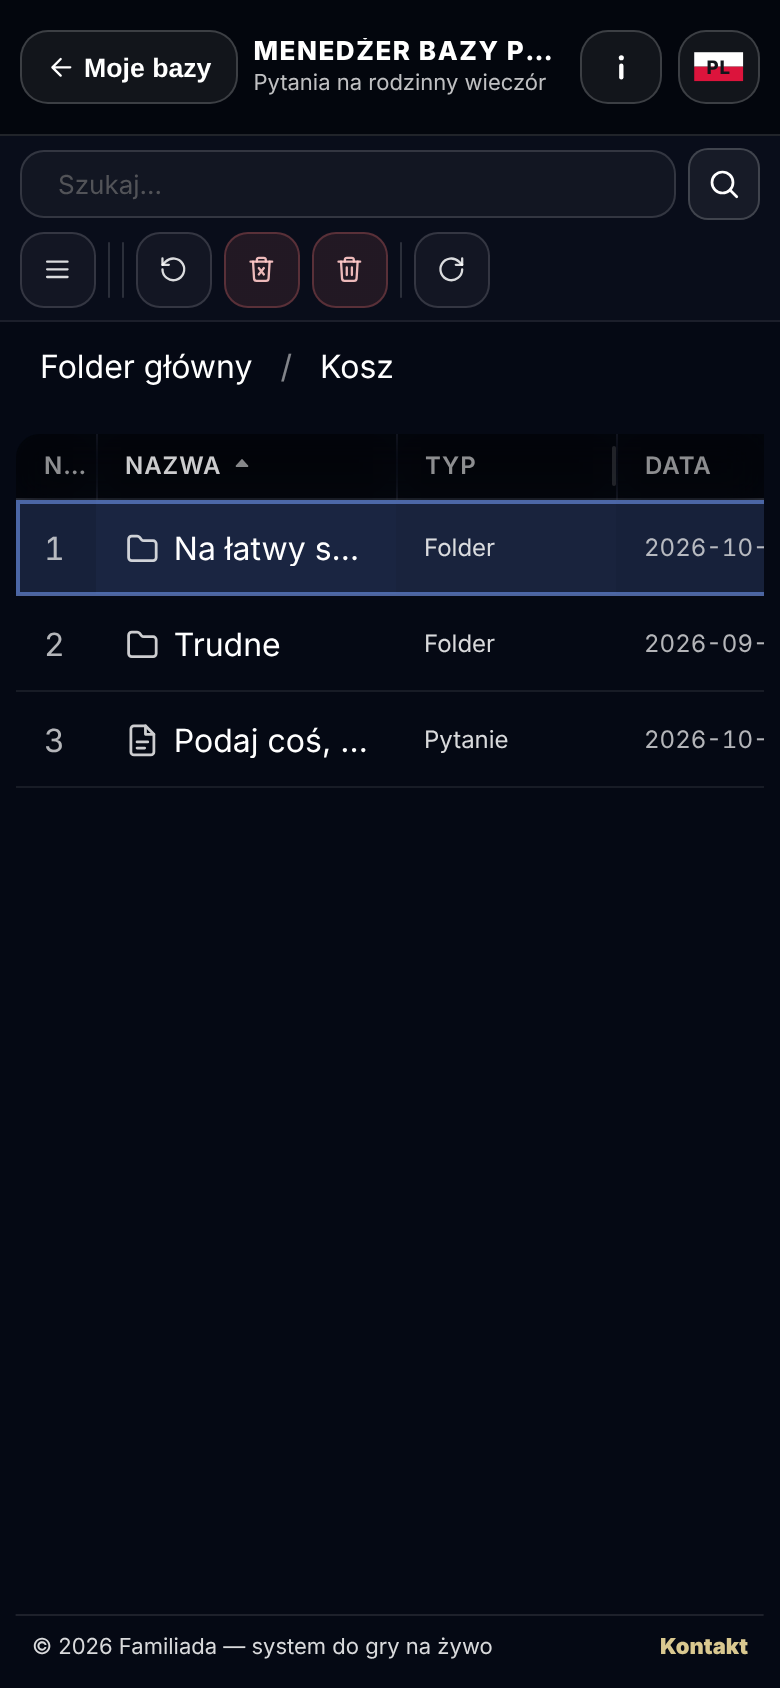
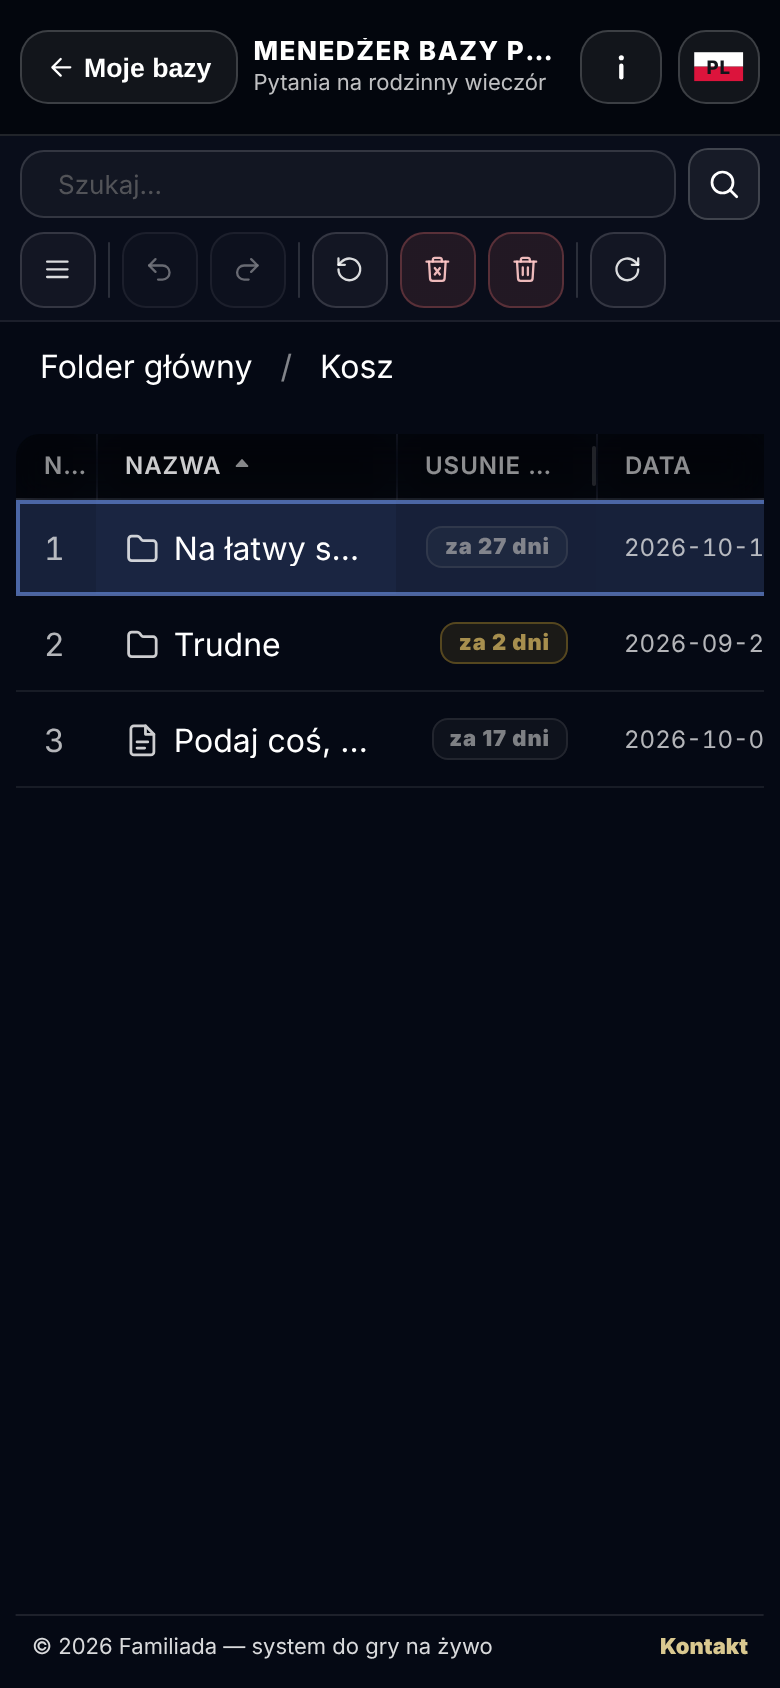
E22: kosz na telefonie — kolumna „Zniknie” za nazwą, bez kolumny Typ; PROGRESS i plan zaktualizowane
Claude-Session: https://claude.ai/code/session_01G9bp3sDMZMgi9kxrvLkmJC

diff --git a/web/bases/explorer/js/render.js b/web/bases/explorer/js/render.js
@@ -389,6 +389,14 @@ function emptyText(state, listing) {
   return t("baseExplorer.list.empty");
 }
 
+// Kolumny listy. W koszu bez Typu (ikona mówi, czy to folder, czy pytanie),
+// a „Usunie się” zaraz za nazwą — na telefonie widać ją bez przewijania.
+const TRASH_ORDER = ["num", "name", "info", "date"];
+function columnsFor(listing) {
+  if (listing.mode !== "trash") return LIST_COLUMNS;
+  return TRASH_ORDER.map((key) => LIST_COLUMNS.find((c) => c.key === key));
+}
+
 export function currentListing(state) {
   return computeListing(state.store, state.d, { location: state.location, query: isTrash(state) ? {} : state.query });
 }
@@ -413,12 +421,13 @@ export function renderList(state) {
     return;
   }
 
+  const columns = columnsFor(listing);
   const saved = loadCols();
   const narrow = isNarrow();
-  const cols = LIST_COLUMNS.map((c) => (c.key === "name" ? `<col>` : `<col style="width:${colWidth(c, saved)}px">`)).join("");
-  const minW = LIST_COLUMNS.reduce((s, c) => s + (c.key === "name" ? (narrow ? c.narrowMin : c.min) : colWidth(c, saved)), 0);
+  const cols = columns.map((c) => (c.key === "name" ? `<col>` : `<col style="width:${colWidth(c, saved)}px">`)).join("");
+  const minW = columns.reduce((s, c) => s + (c.key === "name" ? (narrow ? c.narrowMin : c.min) : colWidth(c, saved)), 0);
 
-  const head = LIST_COLUMNS.map((c) => {
+  const head = columns.map((c) => {
     // w koszu kolumna Info mówi, kiedy wpis zniknie na zawsze
     const label = esc(t(c.key === "info" && listing.mode === "trash" ? "baseExplorer.list.colPurge" : c.labelKey));
     if (!c.sort) return `<th class="${c.cls}">${label}</th>`;
@@ -449,13 +458,16 @@ export function renderList(state) {
       type = `<span class="type-label">${esc(t("baseExplorer.list.questionType"))}</span>${typeDotHtml(it.type)}`;
       info = esc(t("baseExplorer.list.answerCount", { count: it.info }));
     }
+    const cell = {
+      num: `<td class="col-num">${i + 1}</td>`,
+      name: `<td class="col-main"><div class="title-line"><span class="title-text">${title}</span>${dots}</div></td>`,
+      type: `<td class="col-type">${type}</td>`,
+      date: `<td class="col-date">${esc(fmtDate(it.date))}</td>`,
+      info: `<td class="col-meta">${info}</td>`,
+    };
     return `
       <tr class="row${sel}${cut}"${it.kind === "trash" ? "" : draggable} data-kind="${it.kind}" data-id="${esc(it.id)}" data-key="${esc(key)}">
-        <td class="col-num">${i + 1}</td>
-        <td class="col-main"><div class="title-line"><span class="title-text">${title}</span>${dots}</div></td>
-        <td class="col-type">${type}</td>
-        <td class="col-date">${esc(fmtDate(it.date))}</td>
-        <td class="col-meta">${info}</td>
+        ${columns.map((c) => cell[c.key]).join("")}
       </tr>`;
   }).join("");
 
@@ -465,18 +477,18 @@ export function renderList(state) {
       <thead><tr class="list-head">${head}</tr></thead>
       <tbody>${rows}</tbody>
     </table>`;
-  initColumnResizers();
+  initColumnResizers(columns);
 }
 
 // Uchwyty zmiany szerokości (bez kolumny Nazwa, która wypełnia resztę);
 // dwuklik przywraca domyślną szerokość.
-function initColumnResizers() {
+function initColumnResizers(columns) {
   const table = elList?.querySelector(".list-table");
   const head = table?.querySelector(".list-head");
   if (!table || !head) return;
   const colEls = table.querySelectorAll("colgroup col");
 
-  LIST_COLUMNS.forEach((c, i) => {
+  columns.forEach((c, i) => {
     if (!c.min || c.key === "name") return;
     const th = head.children[i];
     const col = colEls[i];

diff --git a/web/shared/translation/uk.js b/web/shared/translation/uk.js
@@ -4482,7 +4482,7 @@ const uk = {
       colType: "Тип",
       colDate: "Дата",
       colInfo: "Інфо",
-      colPurge: "Видалиться",
+      colPurge: "Зникне",
       folderType: "Папка",
       folderCount: "{count} елем.",
       questionType: "Питання",

diff --git a/web/shared/translation/pl.js b/web/shared/translation/pl.js
@@ -4385,7 +4385,7 @@ const pl = {
       colType: "Typ",
       colDate: "Data",
       colInfo: "Info",
-      colPurge: "Usunie się",
+      colPurge: "Zniknie",
       folderType: "Folder",
       folderCount: "{count} elem.",
       questionType: "Pytanie",

diff --git a/web/shared/translation/en.js b/web/shared/translation/en.js
@@ -4485,7 +4485,7 @@ const en = {
       colType: "Type",
       colDate: "Date",
       colInfo: "Info",
-      colPurge: "Deleted",
+      colPurge: "Expires",
       folderType: "Folder",
       folderCount: "{count} items",
       questionType: "Question",

diff --git a/docs/menedzer-bazy-plan.md b/docs/menedzer-bazy-plan.md
@@ -127,32 +127,21 @@ szczegółowe w tym katalogu.
 
 ## Etapy
 
-1. **Porządek zapisów (w toku):**
-   - migracja 427 `qb_*`: każda akcja = jedna funkcja SQL = jedna
-     transakcja (SECURITY INVOKER — RLS i wyzwalacz treści jak dotąd);
-     zwracają stan „przed” (pod cofanie). Test: `tests/sql/qb-atomic-ops-427.sql`.
-   - `js/ops.js` — jedyne miejsce zapisu; mapuje błędy `qb:*` na komunikaty.
-   - `js/repo.js` — wszystkie odczyty; `actions.js` bez `sb()`.
-   - jedna ścieżka po zapisie: `afterMutation()` (unieważnienie pamięci
-     podręcznej + odświeżenie widoku); jedna funkcja kopiowania
-     (`copyItemsTo`) zamiast trzech; schowek trzyma same klucze.
-   - usunięty martwy kod (`actions.js` 4866 → ~4100 linii, `state.js`).
-   - Zmiany zachowania: zdjęcie tagu z folderu w widoku tagu zdejmuje go
-     z całego poddrzewa (wcześniej tylko z bezpośredniego przypisania
-     folderu, więc folder dalej był widoczny); nazwy „Nowy folder” /
-     „Nowe pytanie” z tłumaczeń; wklejenie kopii, gdy źródło usunięto
-     po skopiowaniu, kończy się komunikatem „element zniknął”.
-2. **Kosz (gotowe na branchu):** migracja 428 (`qb_trash`, `qb_delete_items`
-   do kosza, `qb_trash_list/restore/purge`, `qb_trash_cleanup` + cron),
-   test `tests/sql/qb-trash-428.sql`; `trash-modal.js`, wiersz w lewym
-   panelu, tłumaczenia PL/EN/UK, scena zrzutów `base-explorer-trash`,
-   e2e „base-explorer: kosz (E22)”. Przy okazji: jedna bramka skrótów
-   klawiszowych (Delete w polu okna pytania usuwał zaznaczenie,
-   Ctrl+Shift+N tworzył pytanie zamiast folderu), komunikaty potwierdzeń
-   bez polskich wstawek w EN/UK.
-3. **Cofanie / przywracanie** — na `ops.js`.
-4. **Dalsze porządki** (`wireActions` ~2000 linii obsługi zdarzeń:
-   podział na moduły drzewo/lista/klawiatura/przeciąganie).
+Aktualny stan i lista kroków: [`PROGRESS.md`](../PROGRESS.md) (kroki 1–7 planu
+z `menedzer-bazy/README.md` §4). Skrót:
+
+1. **Porządek zapisów** — migracja 427 `qb_*` (jedna akcja = jedna funkcja
+   SQL = jedna transakcja, zwracają stan „przed”), `js/ops.js` jedyne
+   miejsce zapisu, `js/repo.js` odczyty. Zrobione (lokalnie).
+2. **Kosz** — migracja 428 (`qb_trash`, `qb_delete_items` do kosza,
+   `qb_trash_list/restore/purge`, `qb_trash_cleanup` + cron); w interfejsie
+   **kosz jako folder w drzewie** (okno kosza usunięte). Zrobione (lokalnie).
+3. **Cofanie / ponawianie** — `history.js` + wpisy w `commands.js`,
+   migracja 429 (`qb_restore_tags`). Zrobione (lokalnie).
+4. **Podział na moduły** — `actions.js` usunięty; `commands.js`,
+   `actions/*`, `data/*`, `ui/*`, nowy `page.js`. Zrobione (lokalnie).
+5. **Wdrożenie** — migracje 427–429 na `main` → e2e brancha na produkcji →
+   Pages → testy kontrolne. **Czeka na decyzję użytkownika.**
 
 **Testy lokalne bez produkcji:** e2e z kodem brancha na lokalnym Postgresie
 + PostgREST (atrapa `/auth/v1`, strony z dysku) — `scripts/agent-tools/local-e2e/README.md`;

diff --git a/PROGRESS.md b/PROGRESS.md
@@ -26,9 +26,9 @@ symulowanej bazie — **nic na produkcję**, dopóki użytkownik nie zdecyduje.
 - [x] Zrzuty 390 px / 1440 px: `docs/menedzer-bazy/img/` (kosz, menu, filtr).
 - [x] Pełny lokalny e2e `base-explorer`: 76/76 (+ test okna od dołu); unit 689/689.
 - [x] Zestawienie dla użytkownika (w rozmowie 2026-10-20).
-- [ ] 7a. Scalić `origin/main` do brancha (branch był 34 commity za `main`) — przygotowanie do wdrożenia.
-- [ ] 7b. Poprawka znanego problemu: w koszu na telefonie kolumna „Usunie się” poza ekranem.
-- [ ] 7c. Lokalny e2e `base-explorer` + unit po scaleniu i poprawce.
+- [x] 7a. Scalono `origin/main` (na main w plikach menedżera tylko hashe wersji; `actions.js` zostaje usunięty; konflikt w Dzienniku połączony). Unit 690/690.
+- [x] 7b. Kosz na telefonie: bez kolumny Typ, kolumna „Zniknie” (za N dni) zaraz za nazwą — widoczna bez przewijania (`render.js` `columnsFor`). Zrzut `docs/menedzer-bazy/img/kosz-telefon.png`.
+- [ ] 7c. Lokalny e2e `base-explorer` po scaleniu i poprawce — W TOKU (przebieg uruchomiony, bez porażek do 26/77).
 - [ ] 7d. Wdrożenie (migracje 427–429 → e2e brancha na produkcji → Pages → testy kontrolne) — **czeka na decyzję użytkownika**.
 
 ## Znane problemy

diff --git a/docs/menedzer-bazy/README.md b/docs/menedzer-bazy/README.md
@@ -193,7 +193,7 @@ zmiana zaznaczenia przełącza tylko klasy), `ui/list.js`, `ui/tree.js`,
 `ui/keyboard.js`, `ui/rename-modal.js`, nowy `page.js`. Usunięte:
 `actions.js` (3837 linii), `trash-modal.js`, przycisk i okno kosza.
 - Kosz: zwykły wiersz pod folderami w drzewie (bez plakietki), otwiera się
-  jak folder (`?trash=1`), kolumna „Usunie się” (za N dni), „Przywróć”
+  jak folder (`?trash=1`), kolumna „Zniknie” (za N dni; w koszu bez kolumny Typ), „Przywróć”
   i „Opróżnij kosz” w pasku, „Usuń” w koszu = trwale, menu na koszu
   w drzewie: Otwórz kosz / Opróżnij kosz.
 - Menu kontekstowe na telefonie: arkusz od dołu z `env(safe-area-inset-*)`
